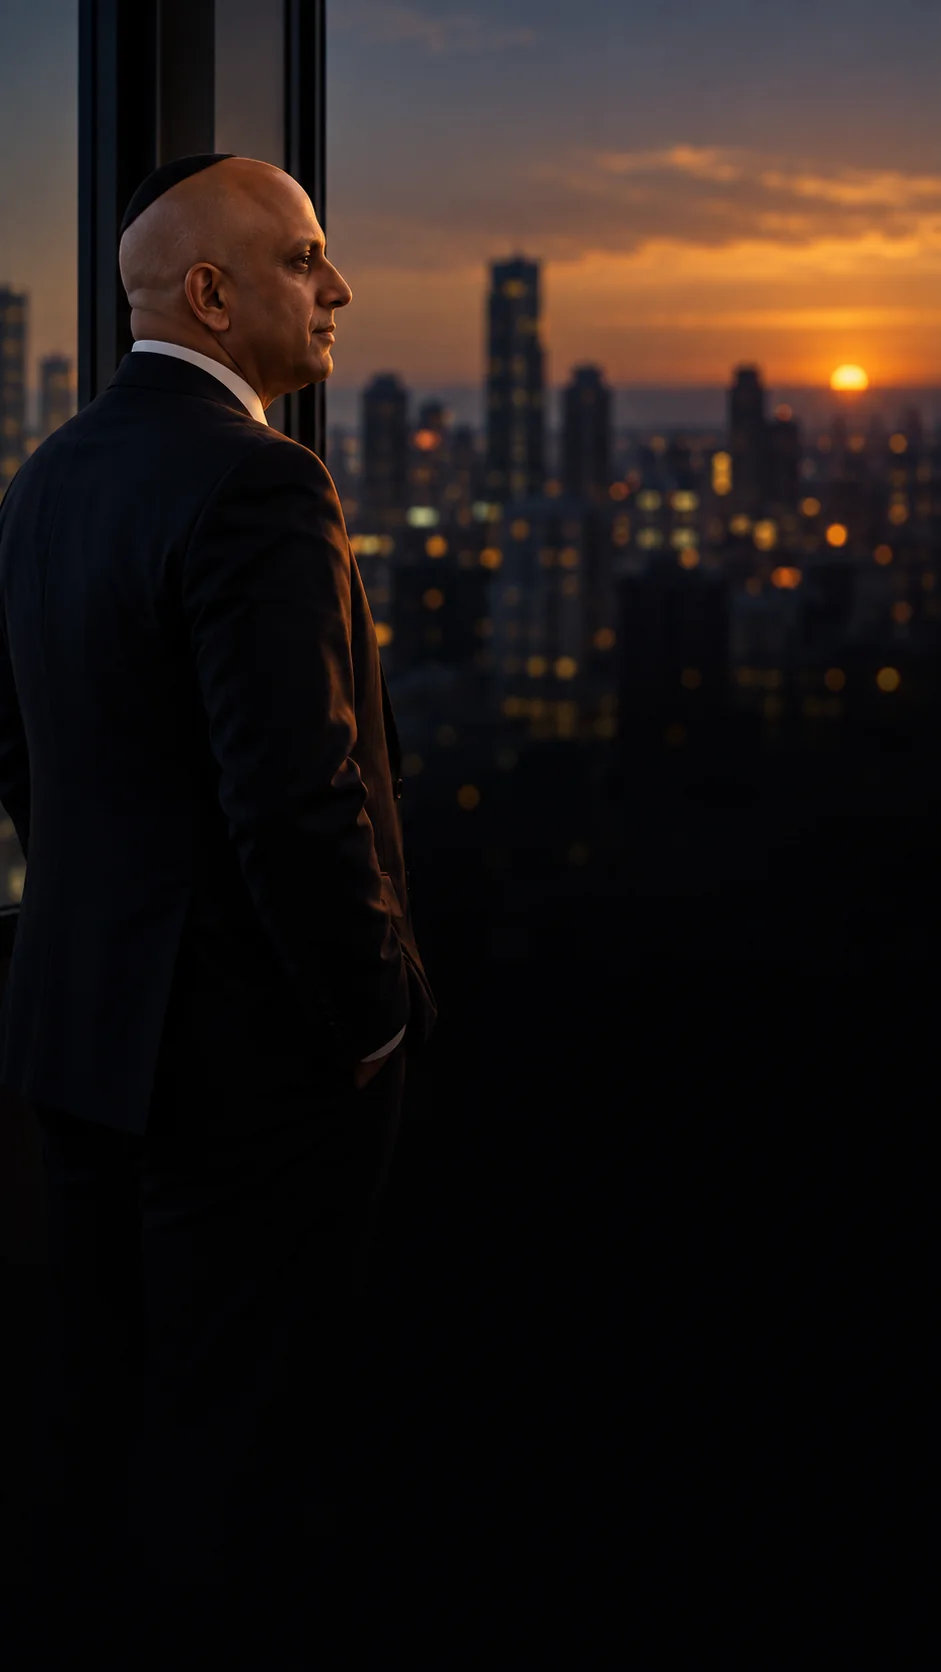
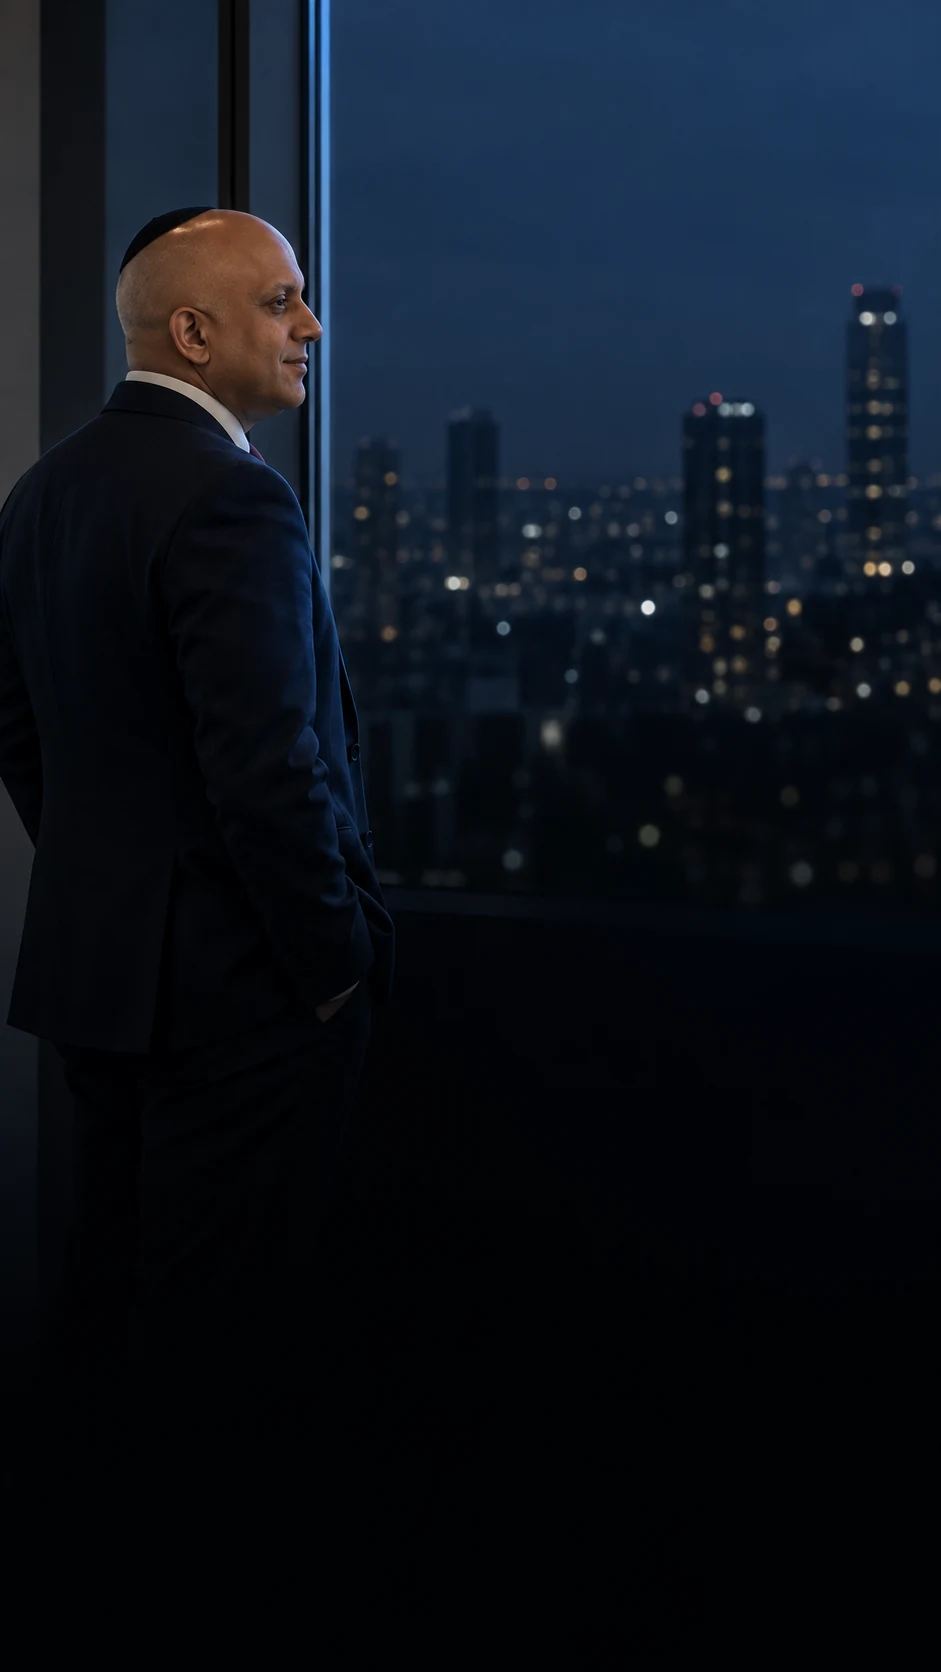
Take the round-9 closing photograph, and fix the scrim under it
The reshoot is accepted on measurement, not impression: mean luminance
18.4 against the old frame's 25.6, warmth (R minus B) -16.1 against
+9.4, and the brightest pixel in the lower half down from 106 to 72.
Cooler and darker on every criterion the round-9 brief set as its
rejection test.

Measuring the closing text over it then found a defect that predates
this image. The earlier phone sweep checked the hero and the FAQ band
but never this one, and at the shipped scrim of .74 both photographs
fail: the old sunset frame put its glow under the sub line at 3.96:1,
the new one puts a city light under the channel labels at 4.09:1.
Different elements, same cause.

The scrim goes to .80, solved numerically as the shallowest value that
clears every pair on the current image — headline 15.50:1, sub line
5.49:1, channel labels 4.91:1, channel values 14.27:1. The frame is
dark enough that the silhouette survives the deeper veil.

diff --git a/site/public/assets/css/style.css b/site/public/assets/css/style.css
@@ -1134,7 +1134,14 @@ html[data-motion="0"] *, html[data-motion="0"] *::before, html[data-motion="0"] 
     background: linear-gradient(to left, rgba(14, 12, 9, .8) 0%, rgba(14, 12, 9, .58) 55%, rgba(14, 12, 9, .52) 100%);
   }
   .statement-figure::after { background: rgba(14, 12, 9, .64); }
-  .closing-figure::after { background: rgba(14, 12, 9, .74); }
+  /* .80, not .74 — solved numerically against BOTH closing photographs
+     rather than eyeballed. At .74 the round-8 dusk frame put its sunset
+     glow under the sub line (3.96:1) and the round-9 blue-hour frame puts
+     a city light under the channel labels (4.09:1): different elements,
+     same cause. .80 clears every pair on the current image with margin
+     (labels 4.91:1, sub 5.49:1) and the photograph is dark enough that
+     the silhouette survives the deeper veil. */
+  .closing-figure::after { background: rgba(14, 12, 9, .8); }
   .closing-grid { grid-template-columns: 1fr; gap: 2.6rem; }
 
   /* The band subjects live in the LEFT third of each frame; a centered

diff --git a/site/GATES.md b/site/GATES.md
@@ -45,6 +45,7 @@ Scope: rebuild the site's visual design as minimal, premium and restrained — r
   An earlier candidate hero (the outdoor frames, 4562_0/_1) was rejected by this same measurement at 1.06:1 and 1.46:1 — the eye could not tell they were unusable, the numbers could.
   2026-09-14 re-verification after the phone cover rework: at 375px the hero kicker, headline, gold word, sub line and "how I work" link were measured against the round-8 listening photograph composited with both CSS dissolves (canvas in the pane) — worst case 7.61:1 (sub line), headline 14.5:1. The FAQ intro over the daylight stamp under the paper veil: label 4.91:1, headline 6.78:1. Horizontal overflow 0 at 375px.
   2026-09-14, second re-verification — the portrait retouch commit (4a2dffa) replaced `hero-room`, which the DESKTOP hero sets white text over with no scrim, so the measurement had to be repeated against the new pixels: at 1440px, kicker 6.49:1, headline 11.27:1, gold word 7.72:1, sub line 5.75:1, name 14.46:1 — all above threshold, worst case the sub line. The retouch lifted the frame (files roughly doubled in size), so the headline came down from the 9.74–14.33:1 band to 11.27:1 and the sub line is now the tightest pair. Any further brightening of this photograph needs this measurement re-run before it ships.
+  2026-09-14, third re-verification — the round-9 closing photograph (blue hour, no sun) replaced the round-8 one, so the centred closing text was measured over it at 375px. This found a defect that predates round 9 and that the earlier phone sweep had missed, because it measured the hero and the FAQ band but never this one: at the shipped scrim of .74 the round-8 frame put its sunset glow under the sub line at 3.96:1, and the round-9 frame puts a city light under the channel labels at 4.09:1 — different elements, same cause, both below 4.5. The scrim was solved numerically rather than eyeballed: .80 is the shallowest value that clears every pair on the current image (headline 15.50:1, sub line 5.49:1, channel labels 4.91:1, channel values 14.27:1), and the photograph is dark enough (mean luminance 18.4 against the old frame's 25.6) that the silhouette survives it. The gold button is excluded from this sweep by design: it carries its own opaque fill, and ink-on-gold is already gated at the token level — measuring its label against the photograph behind it reports a meaningless 1.06:1.
 
 - [x] G9: the mobile navigation drawer opens fully on screen and its links are hit-testable, with the submenu both closed and open — verified with the transition settled, since this browser pane does not composite
   EVIDENCE: at 375px the drawer opens to left=0 right=323 (fully on screen); aria-expanded=true, body overflow hidden, backdrop z-index 85 below the header's 90 (the drawer's z-index resolves inside the header's stacking context, so a backdrop above 90 would swallow every tap — this failed once before and the backdrop was lowered). Submenu closed: 5 visible links, 5/5 hit-testable via elementFromPoint, min height 52px. Submenu open: 11 visible links, 11/11 hit-testable, min height 52px, sub-toggle aria-expanded=true. elementFromPoint validated against a known-visible control before trusting any negative.
